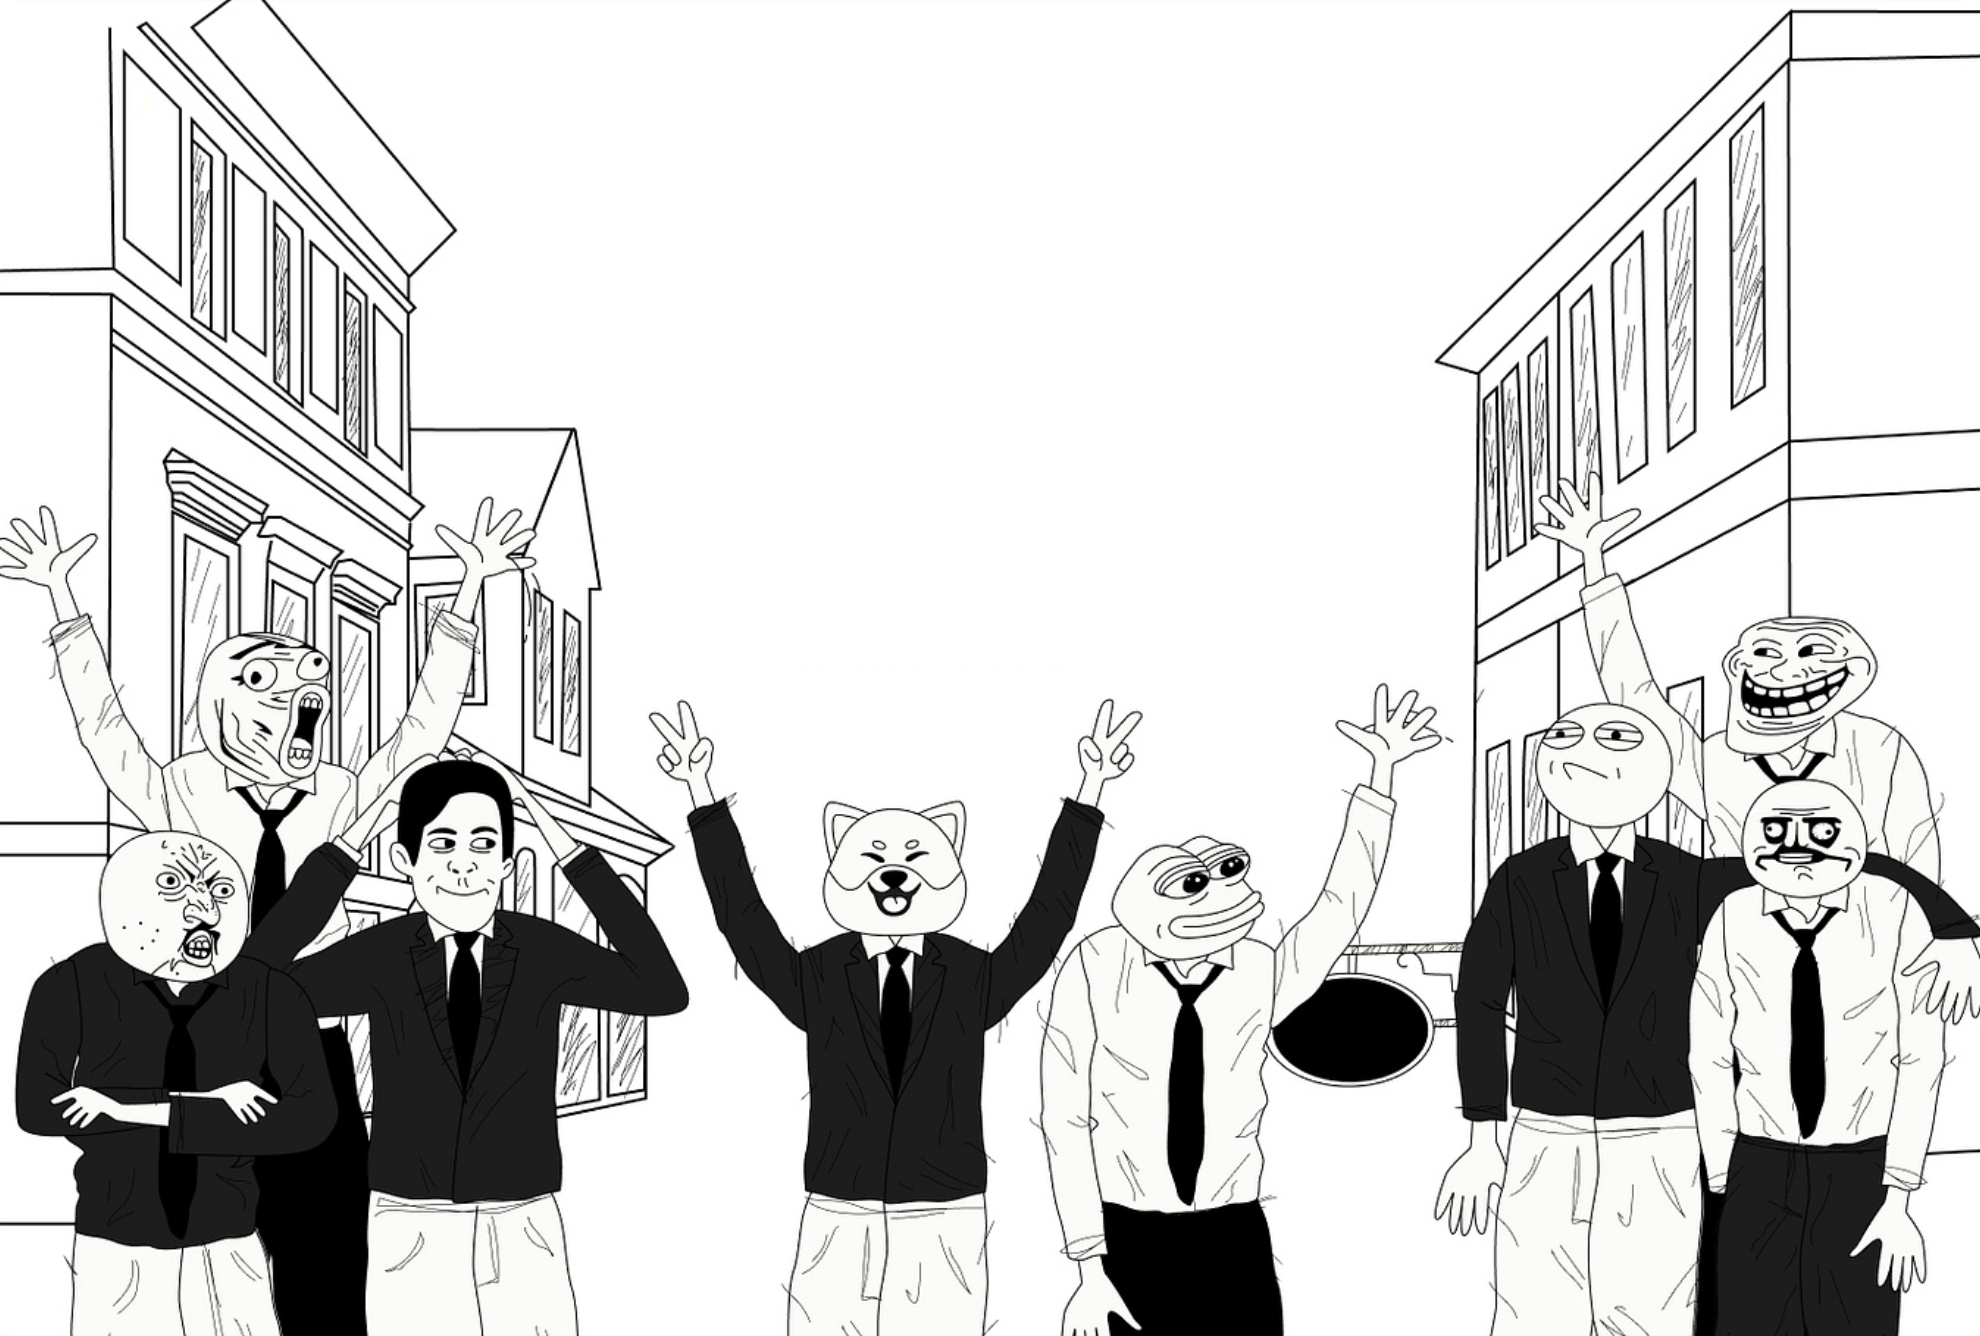
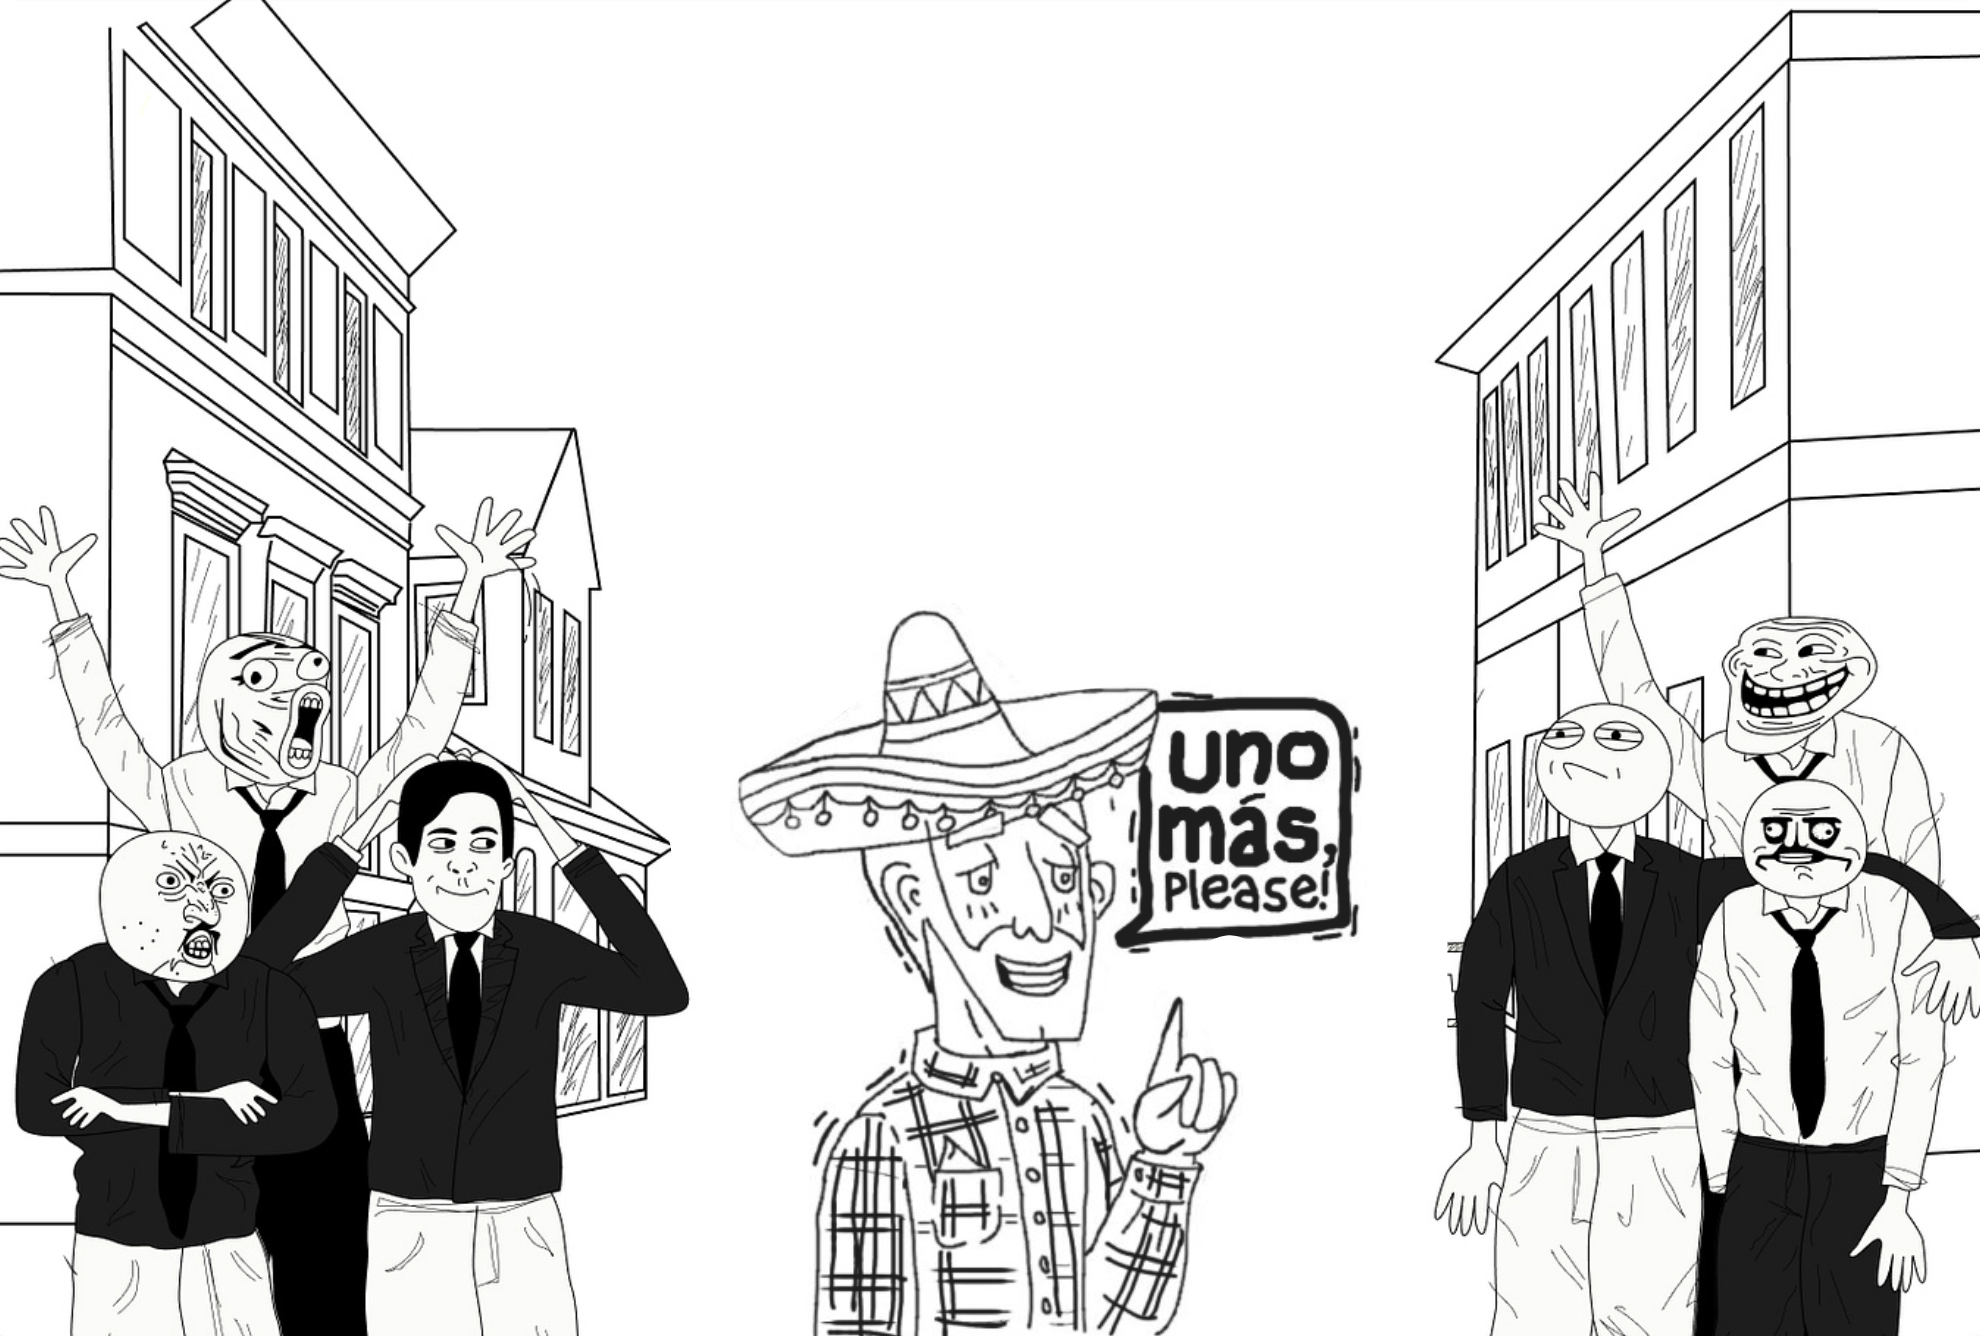
finalize

Changed region(s): [[0.3389, 0.4603, 0.7394, 1.0]]

diff --git a/src/components/Navbar.jsx b/src/components/Navbar.jsx
@@ -1,52 +1,74 @@
+import { useState } from "react";
 import Logo from "../assets/LogoCropped.jpeg";
 
 const Navbar = () => {
+  const [isMenuOpen, setIsMenuOpen] = useState(false);
+
   return (
-    <div className="pt-3 px-3">
-      <nav className="bg-black text-white luckiest-guy-regular px-4 py-3 flex justify-between items-center rounded-lg">
+    <div className="pt-3 px-3  luckiest-guy-regular">
+      <nav className="bg-black text-white px-4 py-3 flex justify-between items-center rounded-lg">
         {/* Logo Section */}
         <div className="flex items-center space-x-2">
-          <img
-            src={Logo} // Replace with actual logo URL
-            alt="Logo"
-            className="w-8 h-8"
-          />
+          <img src={Logo} alt="Logo" className="w-8 h-8" />
           <span className="font-bold text-lg">Unomas Please</span>
         </div>
 
+        {/* Hamburger Menu Button for Small Screens */}
+        <div className="md:hidden">
+          <button
+            onClick={() => setIsMenuOpen(!isMenuOpen)}
+            className="focus:outline-none"
+          >
+            <svg
+              xmlns="http://www.w3.org/2000/svg"
+              fill="none"
+              viewBox="0 0 24 24"
+              strokeWidth={1.5}
+              stroke="currentColor"
+              className="w-6 h-6"
+            >
+              <path
+                strokeLinecap="round"
+                strokeLinejoin="round"
+                d="M3.75 5.25h16.5M3.75 12h16.5m-16.5 6h16.5"
+              />
+            </svg>
+          </button>
+        </div>
+
         {/* Links Section */}
-        <ul className="flex space-x-6">
+        <ul
+          className={`md:flex md:items-center md:space-x-6 absolute md:static bg-black md:bg-transparent top-16 left-0 w-full md:w-auto flex-col md:flex-row items-center space-y-4 md:space-y-0 p-4 md:p-0 rounded-lg z-50 ${
+            isMenuOpen ? "block" : "hidden"
+          }`}
+        >
           <li>
-            <a href="#whitepaper" className="hover:underline">
-              WHITE PAPER
+            <a
+              href="https://t.me/+QAWuI9dspCU0OTZh"
+              className="hover:underline"
+            >
+              Telegram
             </a>
           </li>
           <li>
-            <a href="#about" className="hover:underline">
-              ABOUT
+            <a
+              href="https://x.com/unomas_meme?s=21"
+              className="hover:underline"
+            >
+              Twitter
             </a>
           </li>
           <li>
             <a href="#tokenomics" className="hover:underline">
-              TOKENOMICS
-            </a>
-          </li>
-          <li>
-            <a href="#roadmap" className="hover:underline">
-              ROADMAP
+              Dexscreener (Soon)
             </a>
           </li>
           <li>
             <a href="#faq" className="hover:underline">
-              FAQ
+              Dextools (Soon)
             </a>
           </li>
         </ul>
-
-        {/* Button Section */}
-        <button className="bg-white text-black px-4 py-2 rounded-lg font-medium hover:bg-gray-200 transition">
-          ↔ CO SWAP
-        </button>
       </nav>
     </div>
   );

diff --git a/src/components/MemeGalary.jsx b/src/components/MemeGalary.jsx
@@ -4,17 +4,17 @@ import MemeThree from "../assets/GIF3.gif";
 
 const MemeGallery = () => {
   return (
-    <div className="flex flex-col items-center p-6 luckiest-guy-regular my-12">
+    <div className="flex flex-col items-center luckiest-guy-regular py-20">
       <h1 className="text-5xl font-semibold text-center mb-8">
         This is all of us
       </h1>
-      <div className="grid grid-cols-1 md:grid-cols-3 gap-8">
+      <div className="grid grid-cols-1 md:grid-cols-3 gap-8 px-6 lg:px-0">
         {/* Meme 1 */}
         <div className="flex flex-col items-center">
           <img
             src={MemeOne}
             alt="Meme 1"
-            className="w-60 h-auto rounded shadow-md"
+            className="w-72 h-auto rounded shadow-md"
           />
           <p className="text-center mt-4 text-sm text-gray-600">
             You, when you have just been rugged and scammed
@@ -26,7 +26,7 @@ const MemeGallery = () => {
           <img
             src={MemeTwo}
             alt="Meme 2"
-            className="w-60 h-auto rounded shadow-md"
+            className="w-72 h-auto rounded shadow-md"
           />
           <p className="text-center mt-4 text-sm text-gray-600">
             You, when you know the next one is "the" winner
@@ -38,7 +38,7 @@ const MemeGallery = () => {
           <img
             src={MemeThree}
             alt="Meme 3"
-            className="w-60 h-auto rounded shadow-md"
+            className="w-72 h-auto rounded shadow-md"
           />
           <p className="text-center mt-4 text-sm text-gray-600">
             You, when you have bought so much $UNOMAS

diff --git a/src/components/UpcomingListings.jsx b/src/components/UpcomingListings.jsx
@@ -1,0 +1,33 @@
+const UpcomingListings = () => {
+  return (
+    <div className="bg-black text-white py-20 px-6 luckiest-guy-regular">
+      {/* Title */}
+      <h2 className="text-4xl md:text-5xl font-bold text-center mb-8">
+        Upcoming Listings
+      </h2>
+
+      {/* Listings */}
+      <div className="max-w-4xl mx-auto flex flex-col md:flex-row items-center justify-between gap-6">
+        <p className="text-center  text-lg">
+          A cool exchange will be listed here.
+        </p>
+        <p className="text-center text-lg px-8 border-y py-8 md:border-y-0 md:border-x md:border-t-0">
+          An even cooler exchange will be listed here.
+        </p>
+        <p className="text-center text-lg">
+          The coolest of cool exchanges will be listed here.
+        </p>
+      </div>
+
+      {/* Subtext */}
+      <div className="mt-16 text-center">
+        <p className="text-2xl md:text-3xl italic">
+          When we lose money in crypto, why do we always end up sayin, fk it,
+          <span className="font-bold">$UNOMAS please?</span>
+        </p>
+      </div>
+    </div>
+  );
+};
+
+export default UpcomingListings;

diff --git a/src/components/HeroSection.jsx b/src/components/HeroSection.jsx
@@ -2,15 +2,12 @@ import BG from "../assets/BgMeme.png";
 
 const HeroSection = () => {
   return (
-    <section className="bg-white text-black relative">
-      {/* Background Characters (Image Placeholder) */}
-      <div className="absolute top-0 z-10">
-        <img
-          src={BG} // Replace with actual image URL
-          alt="Hero Background Characters"
-          className="w-full h-auto"
-        />
-      </div>
+    <section
+      className="bg-white text-black relative h-[130vh] bg-cover bg-center"
+      style={{
+        backgroundImage: `url(${BG})`, // Replace BG with the actual image URL or import
+      }}
+    >
       <div className="w-full absolute z-20 luckiest-guy-regular">
         <div className="max-w-6xl mx-auto px-4 py-10 text-center mt-24">
           {/* Tagline */}
@@ -28,7 +25,7 @@ const HeroSection = () => {
           {/* Button */}
           <div className="mt-6">
             <button className="bg-black text-white px-6 py-3 text-lg rounded-lg font-medium hover:bg-gray-800 transition">
-              GO SWAP
+              Unomas Please
             </button>
           </div>
 

diff --git a/src/components/MemeSection.jsx b/src/components/MemeSection.jsx
@@ -1,0 +1,32 @@
+import MemeOne from "../assets/UnomasVid.mp4";
+
+const MemeSection = () => {
+  return (
+    <div className="max-w-7xl mx-auto flex flex-col luckiest-guy-regular gap-10 md:flex-row items-center justify-between pt-16 pb-24 px-6 md:px-10">
+      {/* Meme Video */}
+      <div className="w-full md:w-5/12 flex justify-center">
+        <video
+          src={MemeOne}
+          autoPlay
+          loop
+          muted
+          controls
+          aria-label="Funny meme video"
+          className="rounded-lg shadow-lg w-full md:w-9/12 min-w-[280px]"
+        ></video>
+      </div>
+
+      {/* Text Content */}
+      <div className="w-full md:w-7/12 text-center md:text-left">
+        <h2 className="text-4xl md:text-5xl font-bold mb-4">
+          How our wives view us
+        </h2>
+        <p className="text-lg text-gray-800">
+          Let’s be honest, this is us. Nothing can hide the truth!
+        </p>
+      </div>
+    </div>
+  );
+};
+
+export default MemeSection;

diff --git a/src/components/Footer.jsx b/src/components/Footer.jsx
@@ -1,0 +1,25 @@
+const Footer = () => {
+  return (
+    <footer className="luckiest-guy-regular py-10 px-6">
+      <div className="max-w-7xl mx-auto flex flex-col md:flex-row justify-between items-center">
+        {/* Left Section: Branding */}
+        <div className="mb-6 md:mb-0 px-4">
+          <h1 className="text-2xl font-bold">unomas.meme</h1>
+        </div>
+
+        {/* Right Section: Disclaimer */}
+        <div className="text-center md:text-right text-sm text-gray-400">
+          <p>© 2024 unomas.meme</p>
+          <p className="mt-2">
+            Disclaimer: $UNOMAS is a meme coin made for entertainment purposes.
+            We make no promises about future value, so be responsible. Crypto
+            may be unregulated in your jurisdiction. Profits may be subject to
+            taxes. Always do your own research before investing.
+          </p>
+        </div>
+      </div>
+    </footer>
+  );
+};
+
+export default Footer;

diff --git a/src/components/StatsSection.jsx b/src/components/StatsSection.jsx
@@ -2,7 +2,7 @@ import React from "react";
 
 const StatsSection = () => {
   return (
-    <section className="bg-black text-white py-16 luckiest-guy-regular">
+    <section className="bg-black text-white py-20 luckiest-guy-regular">
       <div className="max-w-7xl mx-auto px-6 md:px-8 grid grid-cols-1 md:grid-cols-3 items-center gap-12">
         {/* First Stat */}
         <div className="flex flex-col items-center">
@@ -13,7 +13,7 @@ const StatsSection = () => {
         </div>
 
         {/* Second Stat */}
-        <div className="flex flex-col items-center border-t pt-8 md:pt-0 px-8 md:border-x-2 border-white">
+        <div className="flex flex-col items-center pt-8 md:pt-0 px-8 border-t md:border-x md:border-t-0  border-white">
           <h2 className="text-5xl font-extrabold mb-4">100%</h2>
           <p className="text-center text-lg">
             100% of $UNOMAS holders are true believers in the coin.

diff --git a/src/App.js b/src/App.js
@@ -1,18 +1,21 @@
+import Footer from "./components/Footer";
 import HeroSection from "./components/HeroSection";
 import MemeGallery from "./components/MemeGalary";
+import MemeSection from "./components/MemeSection";
 import Navbar from "./components/Navbar";
 import StatsSection from "./components/StatsSection";
-import VideoSection from "./components/VideoSection";
+import UpcomingListings from "./components/UpcomingListings";
 
 export default function App() {
   return (
     <div>
       <Navbar />
       <HeroSection />
-      <div className="h-[140vh]" />
       <StatsSection />
       <MemeGallery />
-      <VideoSection />
+      <MemeSection />
+      <UpcomingListings />
+      <Footer />
     </div>
   );
 }
